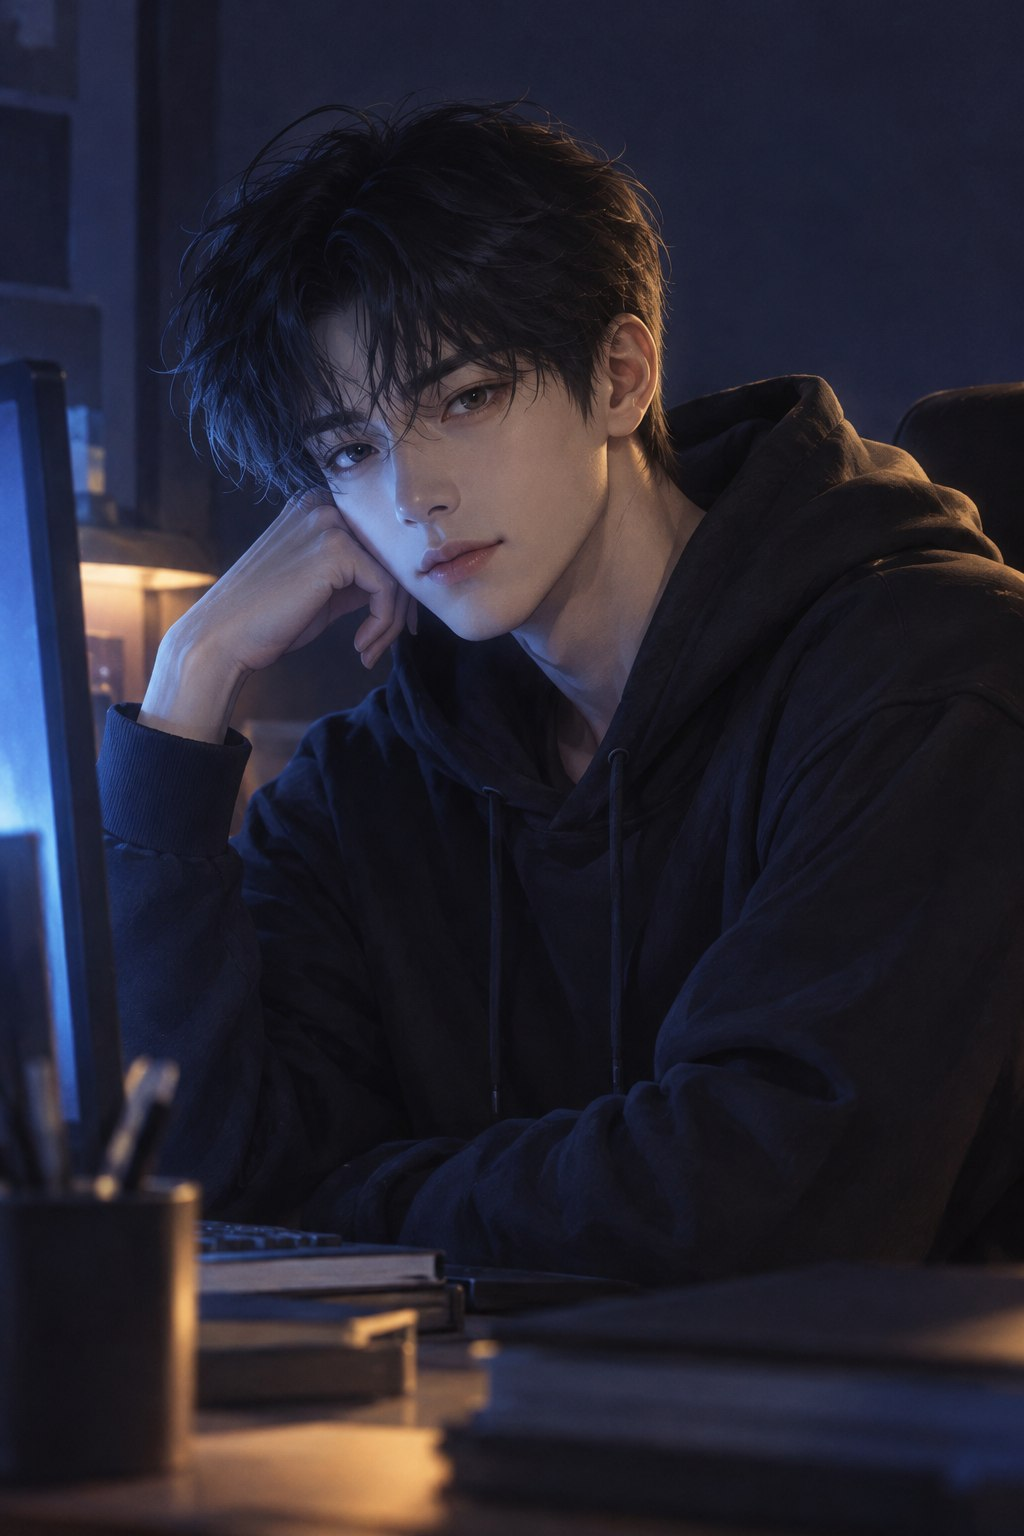
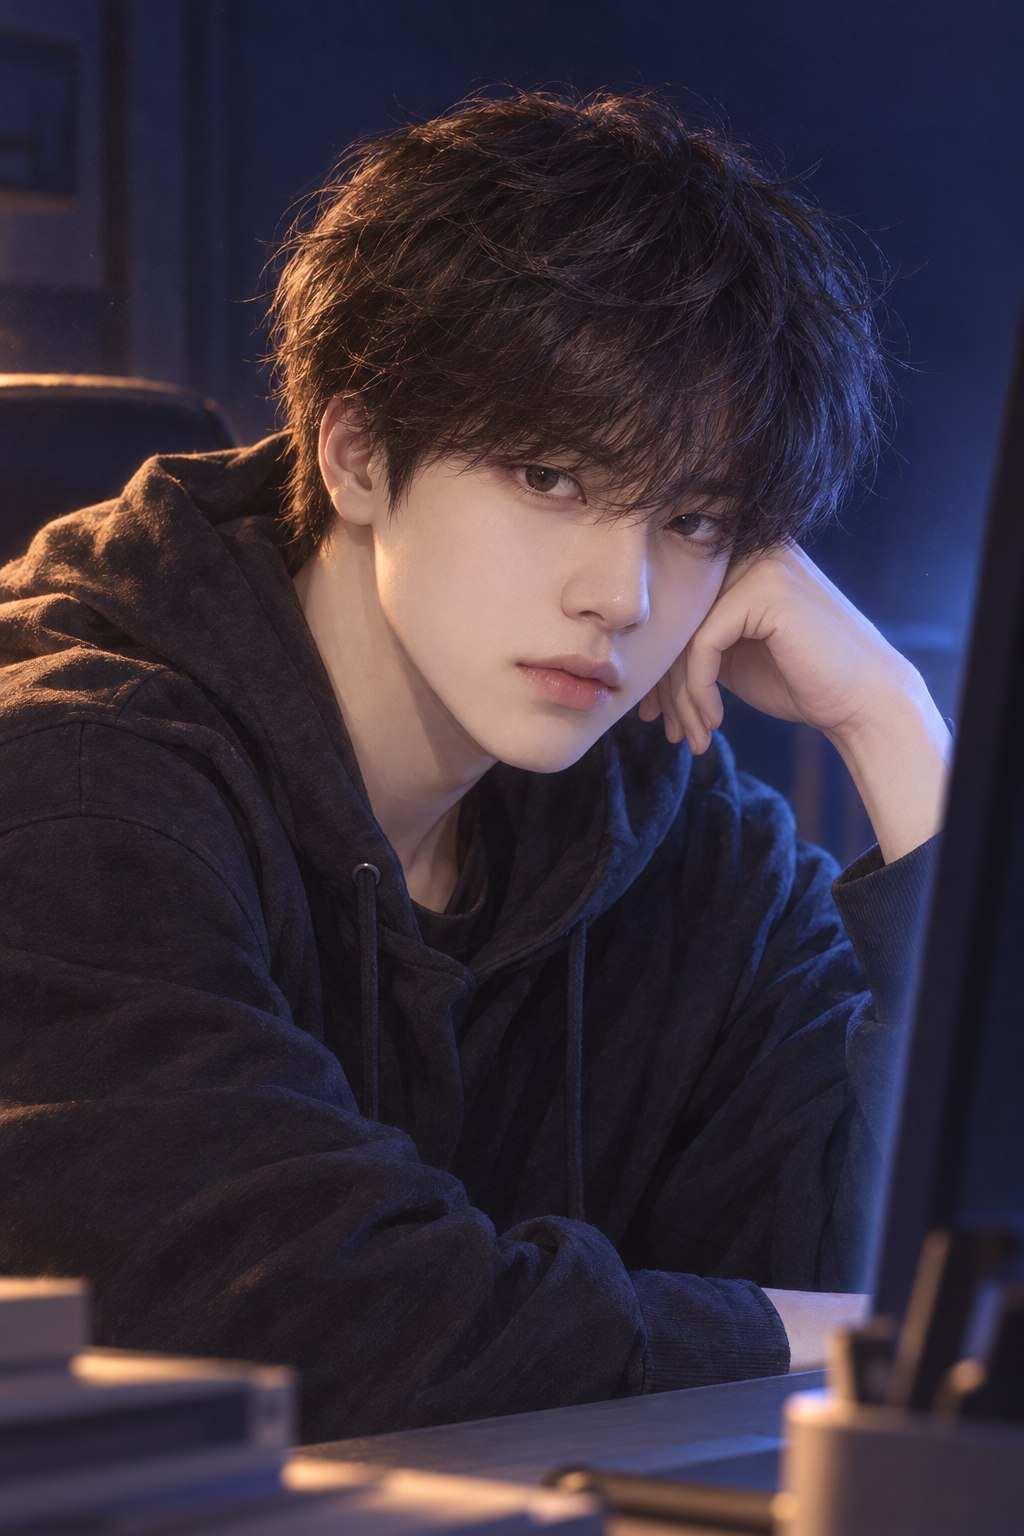
주인공 초상을 실물 참고 이미지로 재생성 + 삽화 small 변형
- genart.js: refs 필드 → references(베이스64 참고 이미지) 지원
- 주인공 사진 2장을 참고해 웹소설풍 초상으로 재생성 (닮되 잘생긴 방향)
- [IMG] 세 번째 필드 = 표시 변형, small은 최대 300px로 아담하게
- .gitignore에 주인공얼굴사진/ 추가 — 실물 사진은 공개 리포에 미포함

Generated with [Devin](https://devin.ai)

diff --git a/tools/genart.js b/tools/genart.js
@@ -11,8 +11,10 @@ const STYLE = 'Korean web novel illustration, soft painterly digital art, muted 
 
 // file: web/img/<file>, size: ima2 size preset, prompt: 장면 설명
 const ART = [
-  { file: 'jihyeok.png', size: '1024x1536', prompt:
-    `Half-body character portrait of a Korean male university student in his early twenties, short slightly messy black hair, calm observant dark eyes, wearing a plain dark hoodie, gentle but quietly determined expression, seated at a desk turned toward the viewer, soft blue monitor glow lighting one side of his face, plain deep indigo background. ${STYLE}` },
+  { file: 'jihyeok.png', size: '1024x1536',
+    refs: ['주인공얼굴사진/KakaoTalk_20261017_040912541_03.jpg', '주인공얼굴사진/KakaoTalk_20261017_040912541_01.jpg'],
+    prompt:
+    `Half-body illustrated character portrait inspired by the young Korean man in the reference photos — keep his recognizable features: wavy dark hair falling over the forehead, gentle deep monolid eyes, soft face shape, pale skin — but drawn as a handsome Korean webnovel protagonist: slightly sharper jawline, clean skin, subtle quiet charisma. Early twenties university student, plain dark hoodie, seated at a desk turned toward the viewer, soft blue monitor glow lighting one side of his face, calm observant expression, plain deep indigo background. ${STYLE}` },
   { file: 'ch01_laptop.png', size: '1536x1024', prompt:
     `Night bedroom desk: a middle-school boy's hand gently resting on the lid of an old thick scuffed silver laptop that his father just handed down, warm desk lamp glow, stacked textbooks, cozy dim room, seen slightly from above, nostalgic mood. ${STYLE}` },
   { file: 'ch02_window.png', size: '1536x1024', prompt:
@@ -58,6 +60,7 @@ async function gen(spec) {
     body: JSON.stringify({
       prompt: spec.prompt, provider: 'oauth', model: MODEL,
       size: spec.size, quality: 'high', reasoningEffort: 'high',
+      ...(spec.refs ? { references: spec.refs.map(f => fs.readFileSync(path.join(ROOT, f)).toString('base64')) } : {}),
       async: true, requestId,
     }),
   });

diff --git a/tools/build.js b/tools/build.js
@@ -44,7 +44,7 @@ function parseFile(file) {
       flush(); const buf = [];
       for (i++; i < lines.length && !/^\[\/IMG\]/i.test(lines[i].trim()); i++) buf.push(lines[i]);
       const seg = buf.join(' ').trim().split('|').map(s => s.trim());
-      blocks.push({ kind: 'img', src: seg[0], alt: seg[1] || '' }); continue;
+      blocks.push({ kind: 'img', src: seg[0], alt: seg[1] || '', variant: seg[2] || '' }); continue;
     }
     if (/^:::\s*choice/.test(t)) {
       flush();
@@ -112,7 +112,7 @@ for (const cid of order) {
       case 'sys': node = { ...base, type: 'sys', text: b.text }; break;
       case 'status': node = { ...base, type: 'status', display: b.text }; break;
       case 'chatline': node = { ...base, type: 'chatline', speaker: b.who, text: b.text }; break;
-      case 'img': node = { ...base, type: 'img', src: b.src, alt: b.alt }; break;
+      case 'img': node = { ...base, type: 'img', src: b.src, alt: b.alt, variant: b.variant || undefined }; break;
       case 'scene': node = { ...base, type: 'scene' }; break;
       case 'choice': node = {
         ...base, type: 'choice', prompt: b.prompt,

diff --git a/web/novel.js b/web/novel.js
@@ -236,7 +236,7 @@ function renderNode(n){
     case 'sys':el('bubble sys',esc(disp(n.text)).replace(/\n/g,'<br>'));break;
     case 'status':el('bubble status',statusCompactHTML(n.display,prevStatusText(n)));break;
     case 'scene':el('scene-divider','* * *');break;
-    case 'img':CURRENT_ILLUS=el('illus',`<img src="${esc(n.src)}" alt="${esc(disp(n.alt)||'삽화')}" loading="lazy">`+(n.alt?`<figcaption>${esc(disp(n.alt))}</figcaption>`:''));break;
+    case 'img':CURRENT_ILLUS=el('illus'+(n.variant?' '+esc(n.variant):''),`<img src="${esc(n.src)}" alt="${esc(disp(n.alt)||'삽화')}" loading="lazy">`+(n.alt?`<figcaption>${esc(disp(n.alt))}</figcaption>`:''));break;
     case 'choice':cancelTimer();nextBtn.style.display='none';renderChoice(n);return;
     case 'end':cancelTimer();nextBtn.style.display='none';renderEnd(n);return;
     case 'goto':advance();return;

diff --git a/web/novel.css b/web/novel.css
@@ -88,6 +88,7 @@ body{margin:0;background:
   border:1px solid #2c3546;box-shadow:0 10px 36px rgba(0,0,0,.45);
   animation:illusZoom 5s ease-out .1s both}
 .illus figcaption{text-align:center;font-size:12px;color:var(--dim);margin-top:8px;letter-spacing:.05em}
+.illus.small img{max-width:min(300px,78vw);border-radius:16px}
 .illus.out{animation:illusOut 1.15s ease forwards}
 @keyframes illusIn{from{opacity:0;transform:translateY(14px) scale(.985)}to{opacity:1;transform:none}}
 @keyframes illusZoom{from{transform:scale(1)}to{transform:scale(1.045)}}

diff --git a/story/chapters/CH01.md b/story/chapters/CH01.md
@@ -3,7 +3,7 @@
 권지혁은 말보다 눈이 먼저인 아이였다.
 
 [IMG]
-img/jihyeok.jpg | 권지혁 — 말보다 눈이 먼저인 사람
+img/jihyeok.jpg | 권지혁 — 말보다 눈이 먼저인 사람 | small
 [/IMG]
 
 초등학교 쉬는 시간, 교실은 늘 두 갈래로 나뉘었다.
